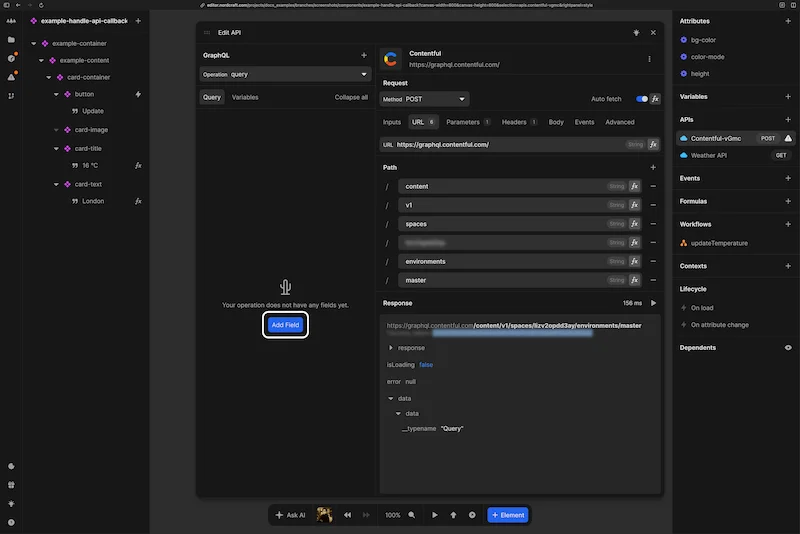
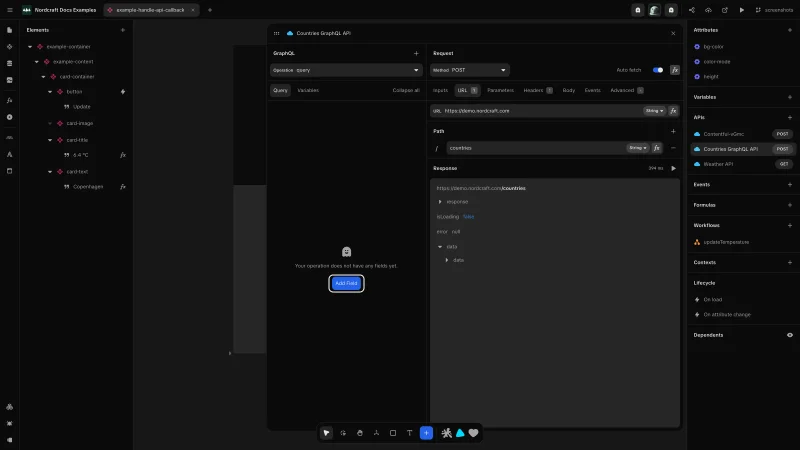
add graphql field

diff --git a/docs/connecting-data/working-with-apis/graphql-add-field.screenshot.ts b/docs/connecting-data/working-with-apis/graphql-add-field.screenshot.ts
@@ -1,0 +1,20 @@
+import { defineScreenshot } from '@/scripts/capture-screenshots'
+import type { Page } from 'playwright'
+
+// Placeholder script for graphql-add-field.webp
+export default defineScreenshot({
+  path: '/projects/docs_examples/branches/screenshots/components/example-handle-api-callback?mode=design&canvas-tool=select&canvas-width=800&selection=apis.Countries%2520GraphQL%2520API&rightpanel=style',
+  setup: async (page: Page) => {
+    await page.waitForTimeout(500)
+  },
+  annotations: [
+    {
+      type: 'box',
+      x: 329,
+      y: 275,
+      width: 35,
+      height: 17,
+      rx: 4
+    }
+  ],
+})
